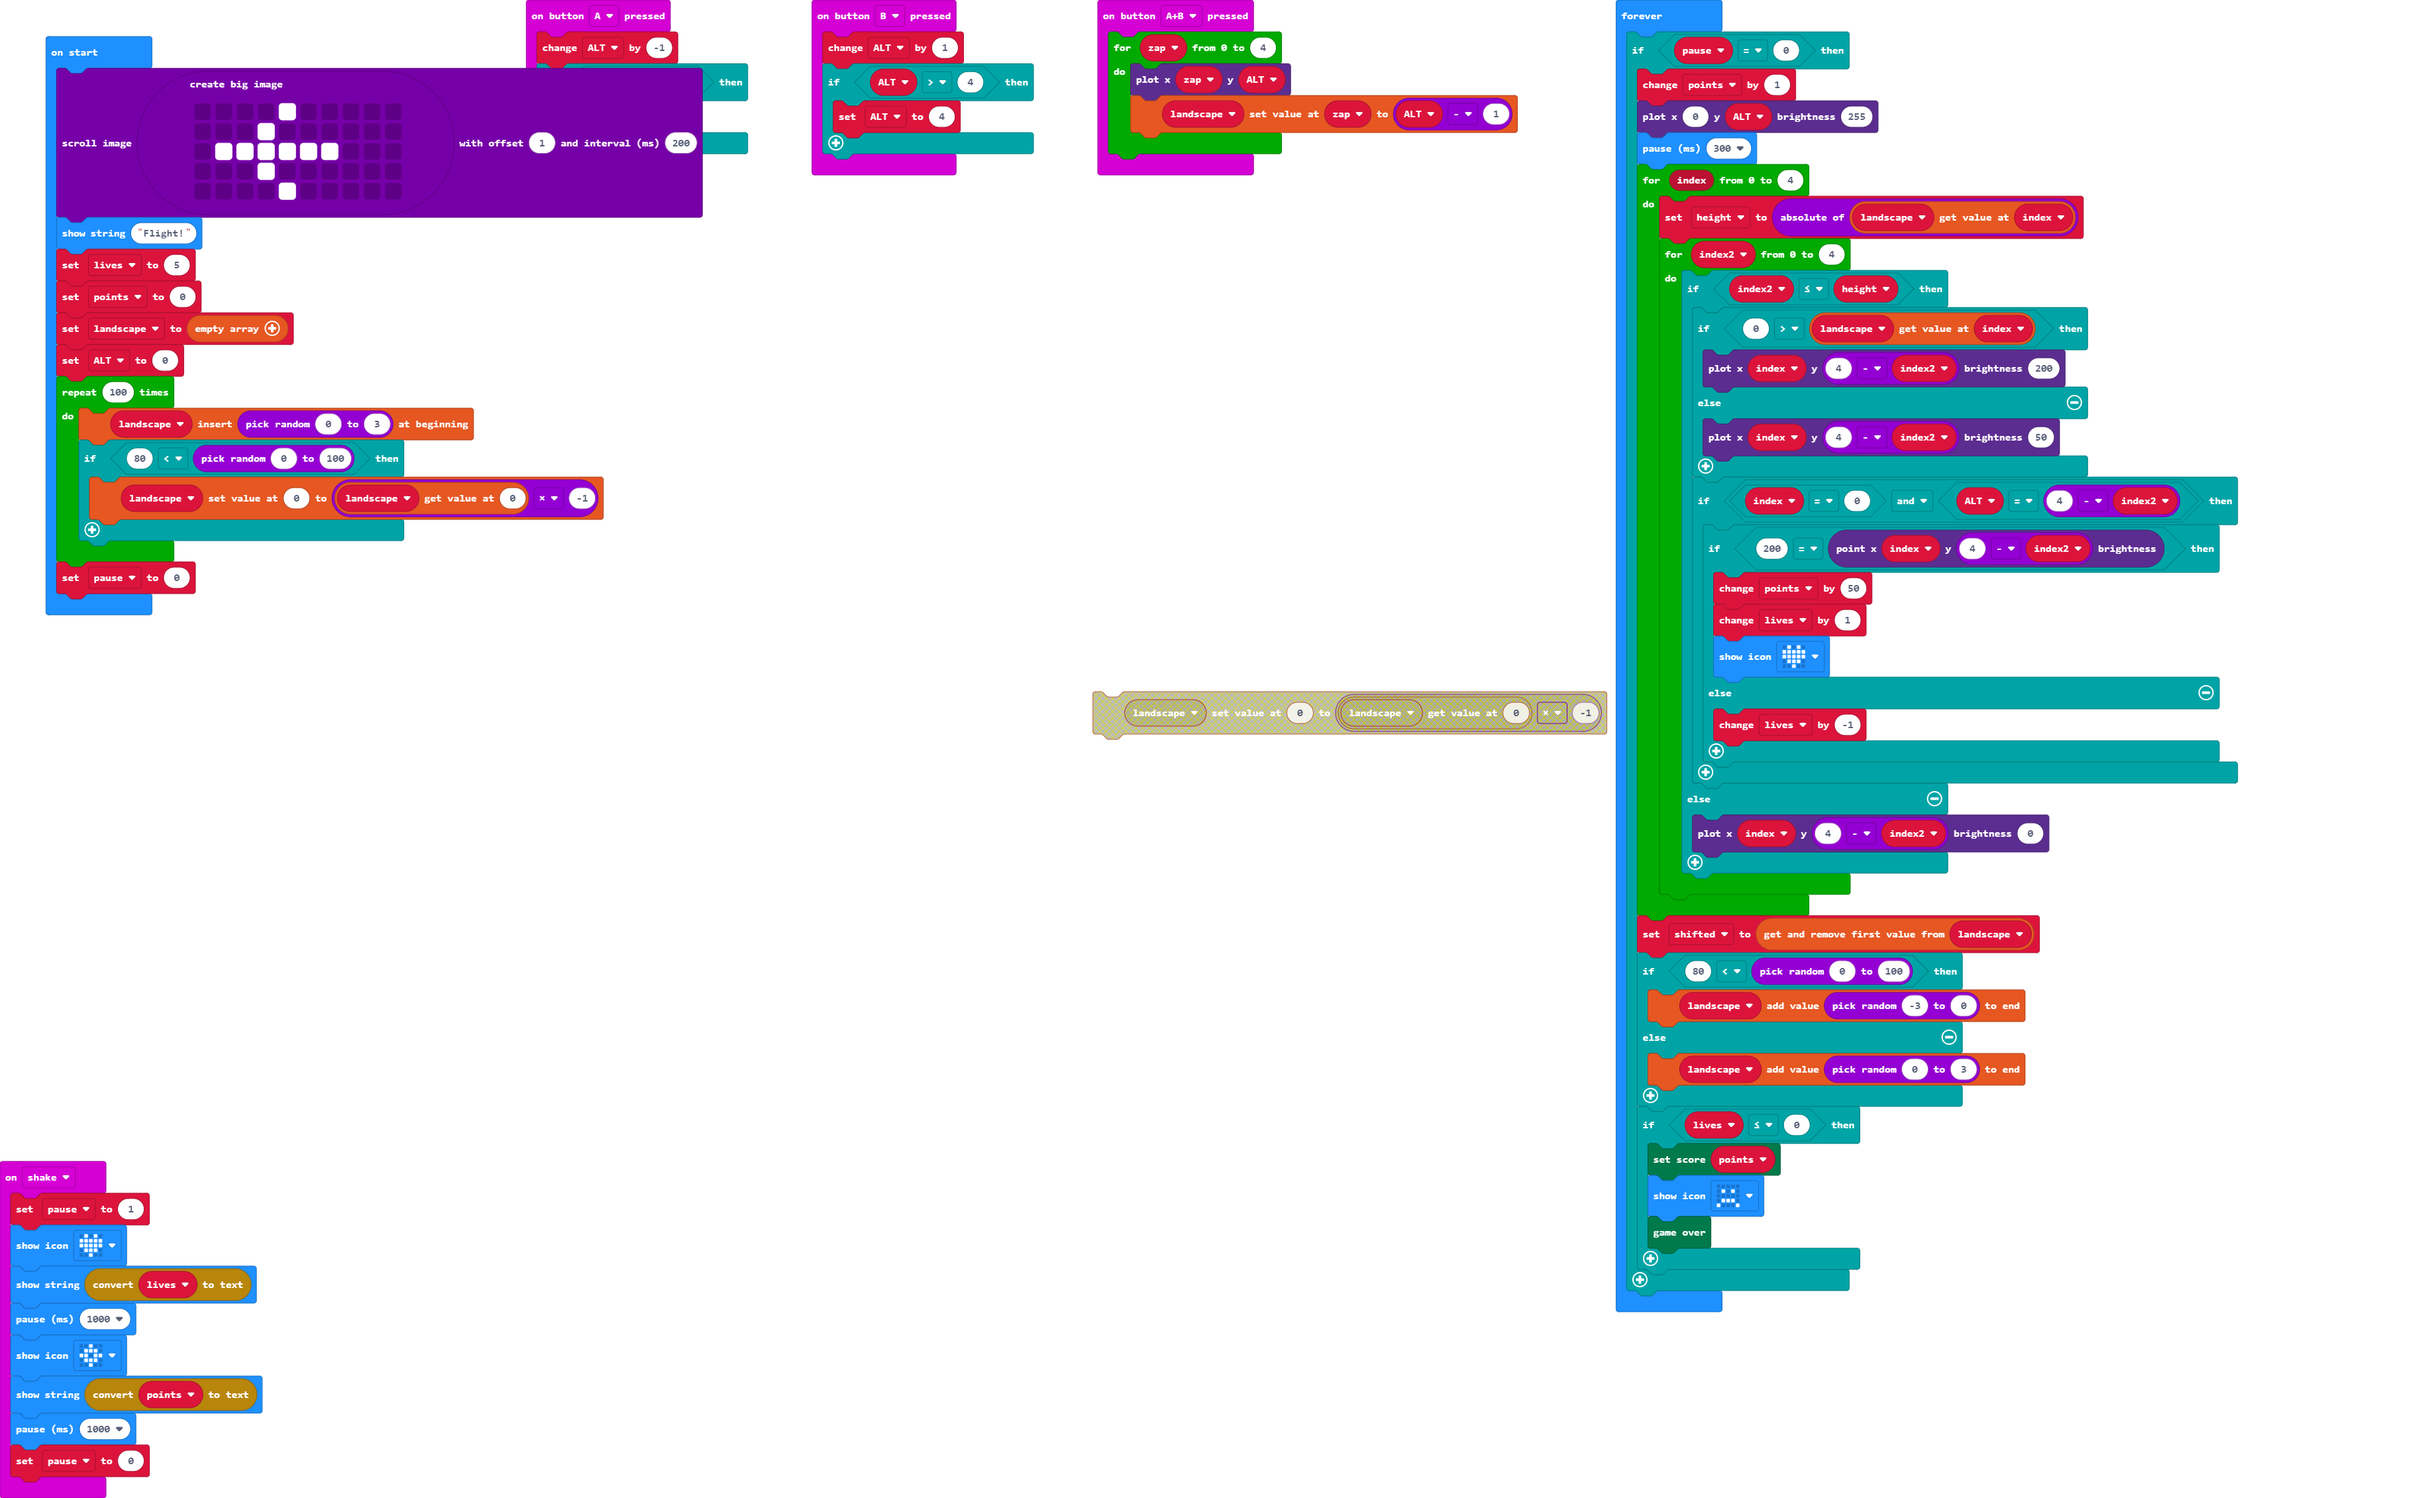
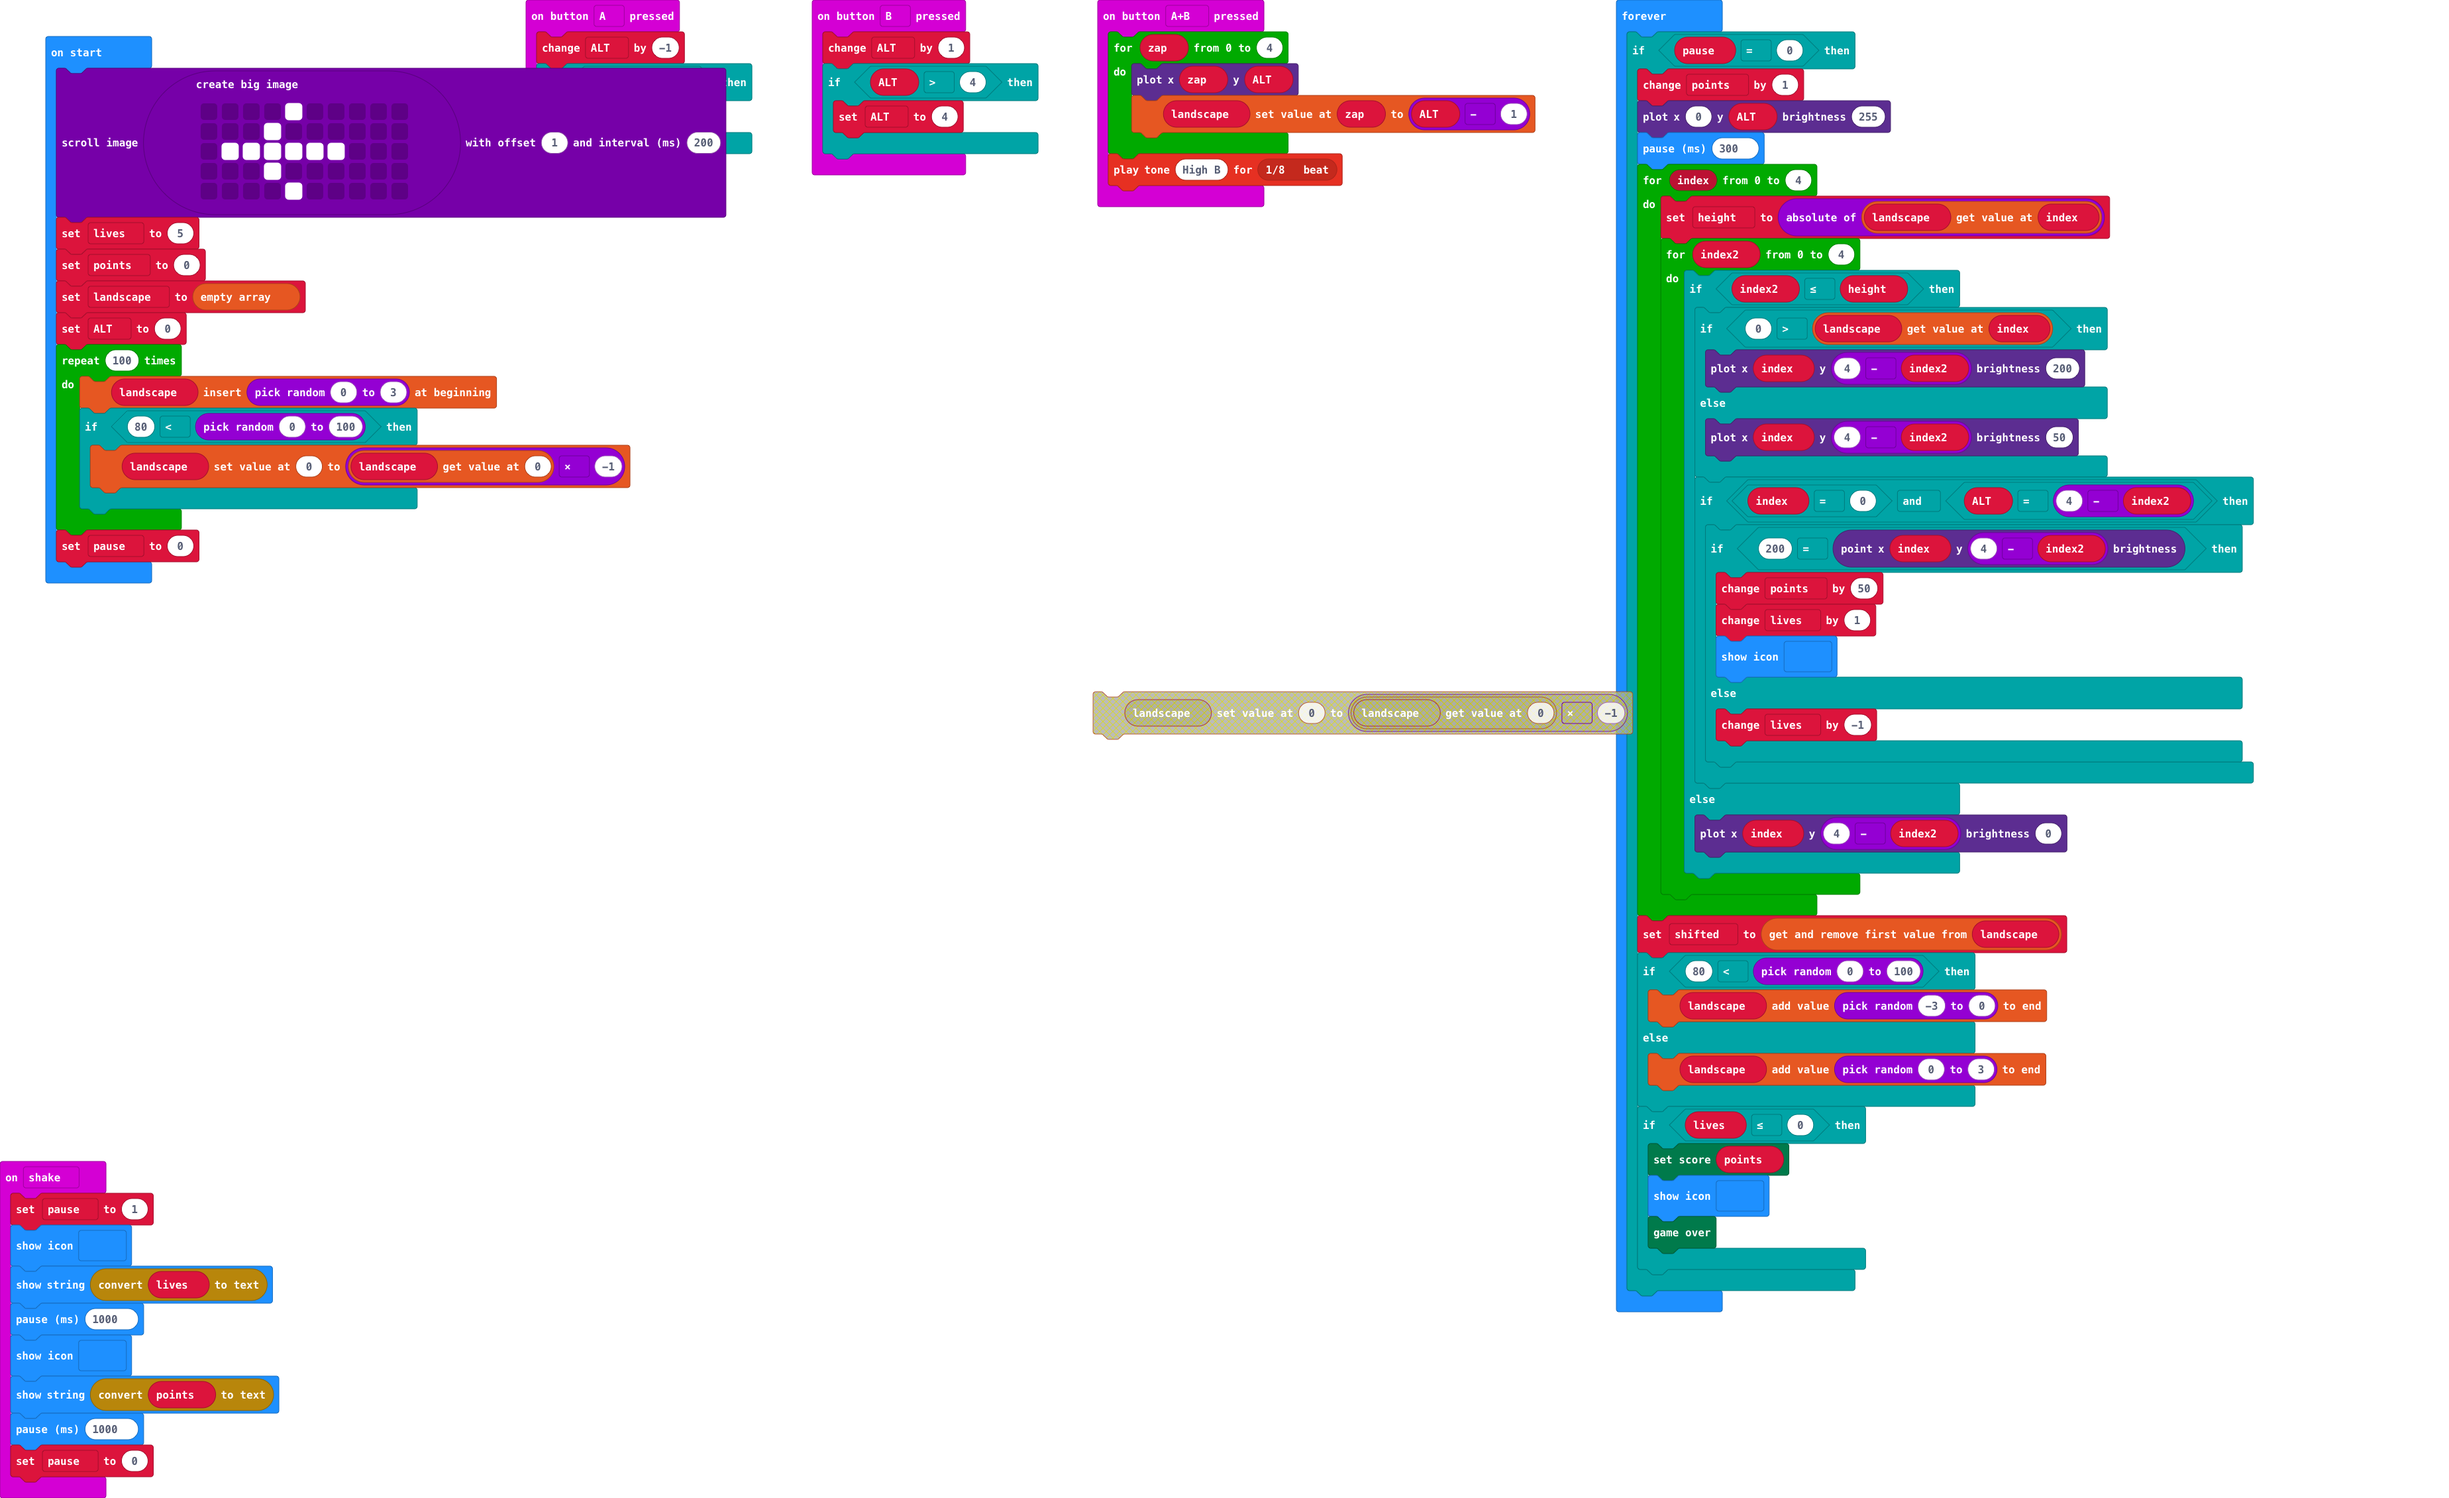
Update main.blocks, main.ts

diff --git a/main.ts b/main.ts
@@ -9,6 +9,7 @@ input.onButtonPressed(Button.AB, function () {
         led.plot(zap, ALT)
         landscape[zap] = ALT - 1
     }
+    music.playTone(988, music.beat(BeatFraction.Eighth))
 })
 input.onButtonPressed(Button.B, function () {
     ALT += 1
@@ -40,7 +41,6 @@ images.createBigImage(`
     . . . # . . . . . .
     . . . . # . . . . .
     `).scrollImage(1, 200)
-basic.showString("Flight!")
 lives = 5
 points = 0
 landscape = []
